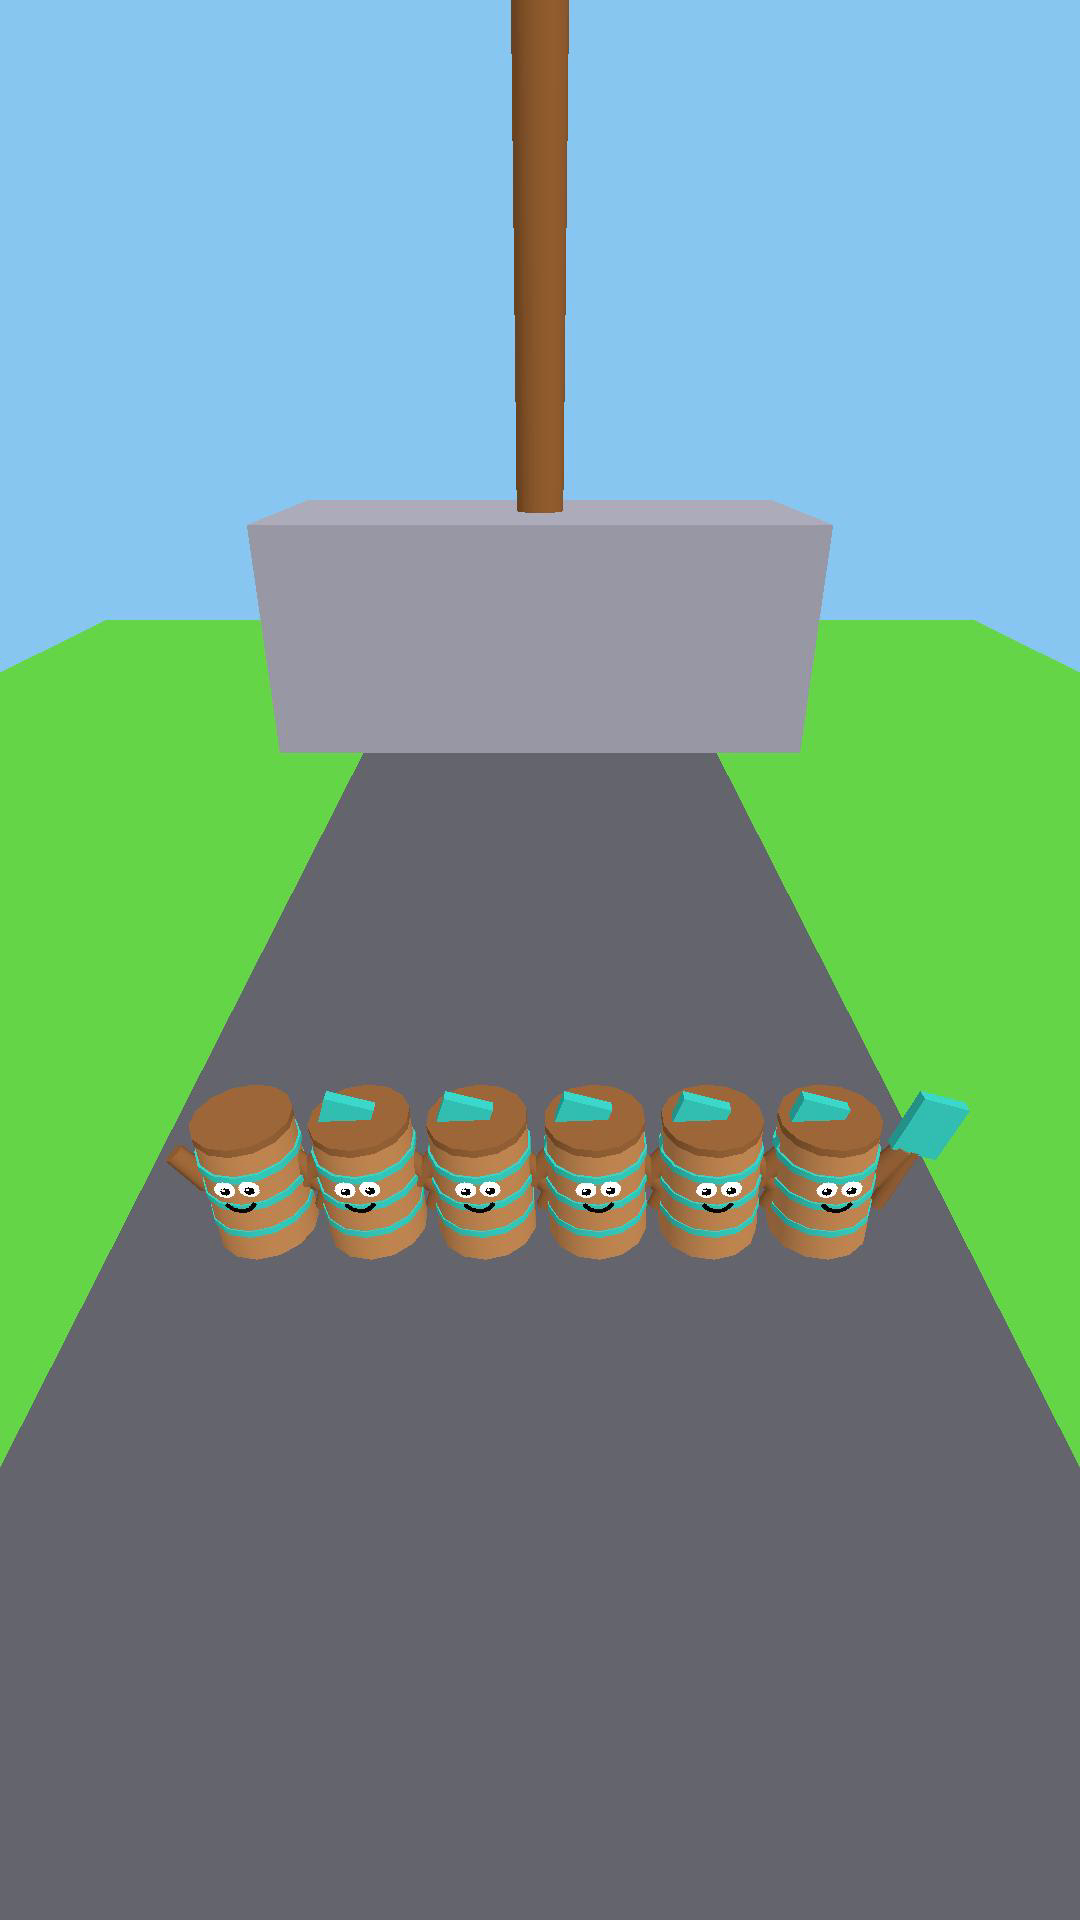
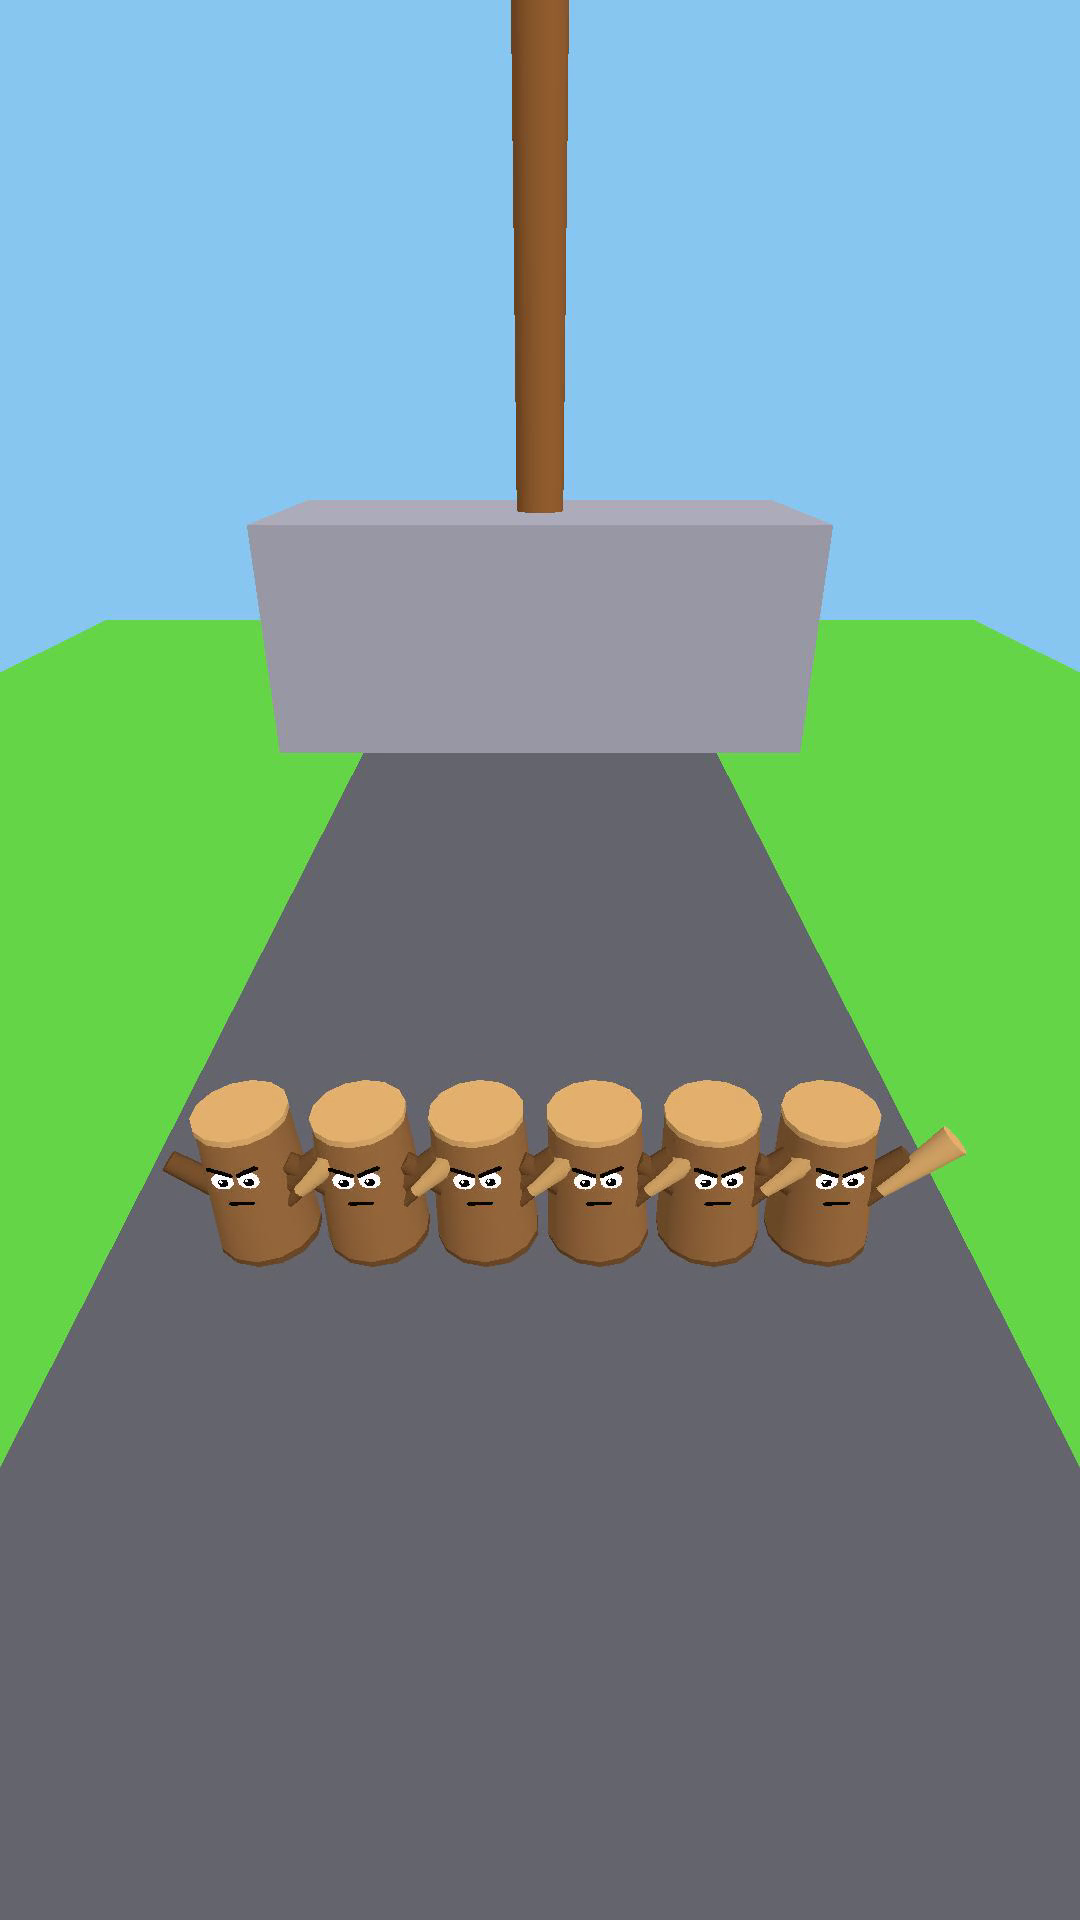
Plonko remodel: 90% reference look (bark log, stern face, baseball bat) per ADR-007b

Changed region(s): [[0.1528, 0.5625, 0.9167, 0.6562]]

diff --git a/game/content/characters/plonko/REFERENCE_NOTE.md b/game/content/characters/plonko/REFERENCE_NOTE.md
@@ -1,0 +1,21 @@
+# REFERENCE NOTE — Plonko (replaces DIFFERENCE_LOG.md, 2026-10-15)
+
+Per ADR-007b (Urbish's explicit call): characters are built ~90% visually
+similar to their brainrot reference archetypes. Copyright is handled by
+Urbish himself. The old 20–30% differentiation rule (ADR-007) is superseded.
+
+## Reference archetype
+Log-warrior with baseball bat (Tung Tung Tung Sahur style): vertical wooden
+log body, cut-wood top, two arms gripping a tapered baseball bat held
+diagonal across the body, stern/angry face, small feet.
+
+## What Plonko keeps (the ~10%)
+- Name: Plonko (own name).
+- Procedural angry-face decal in the channel's house style (not traced art).
+- Flat Lambert shading, low-poly primitive construction matching the
+  factory's house style.
+- Idle bob/wobble animation and squash-on-impact behavior (factory rig).
+
+## Phase 2 (later)
+After 2–3 video concepts each cross 10K views on YouTube, characters get
+edited with our own twist.
